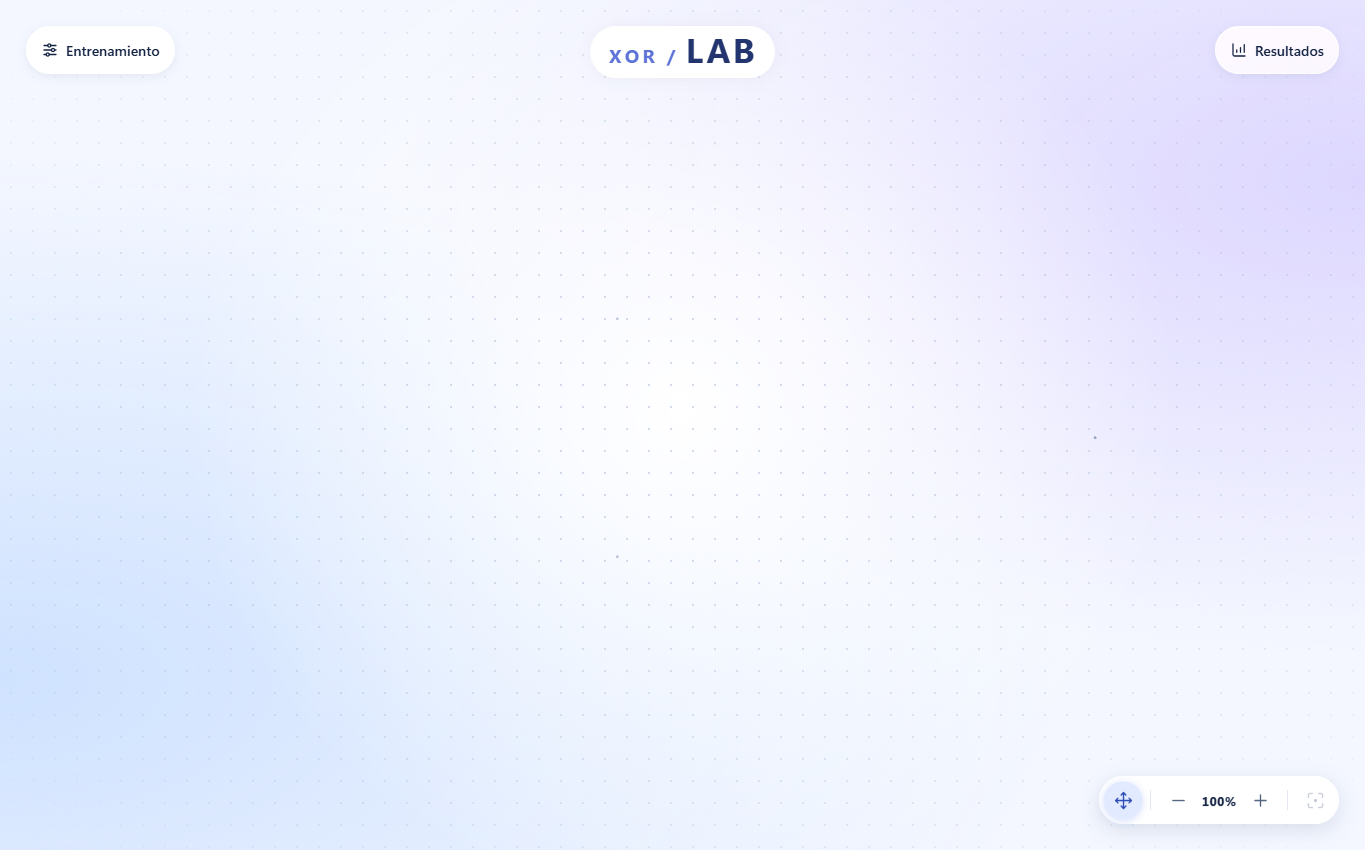
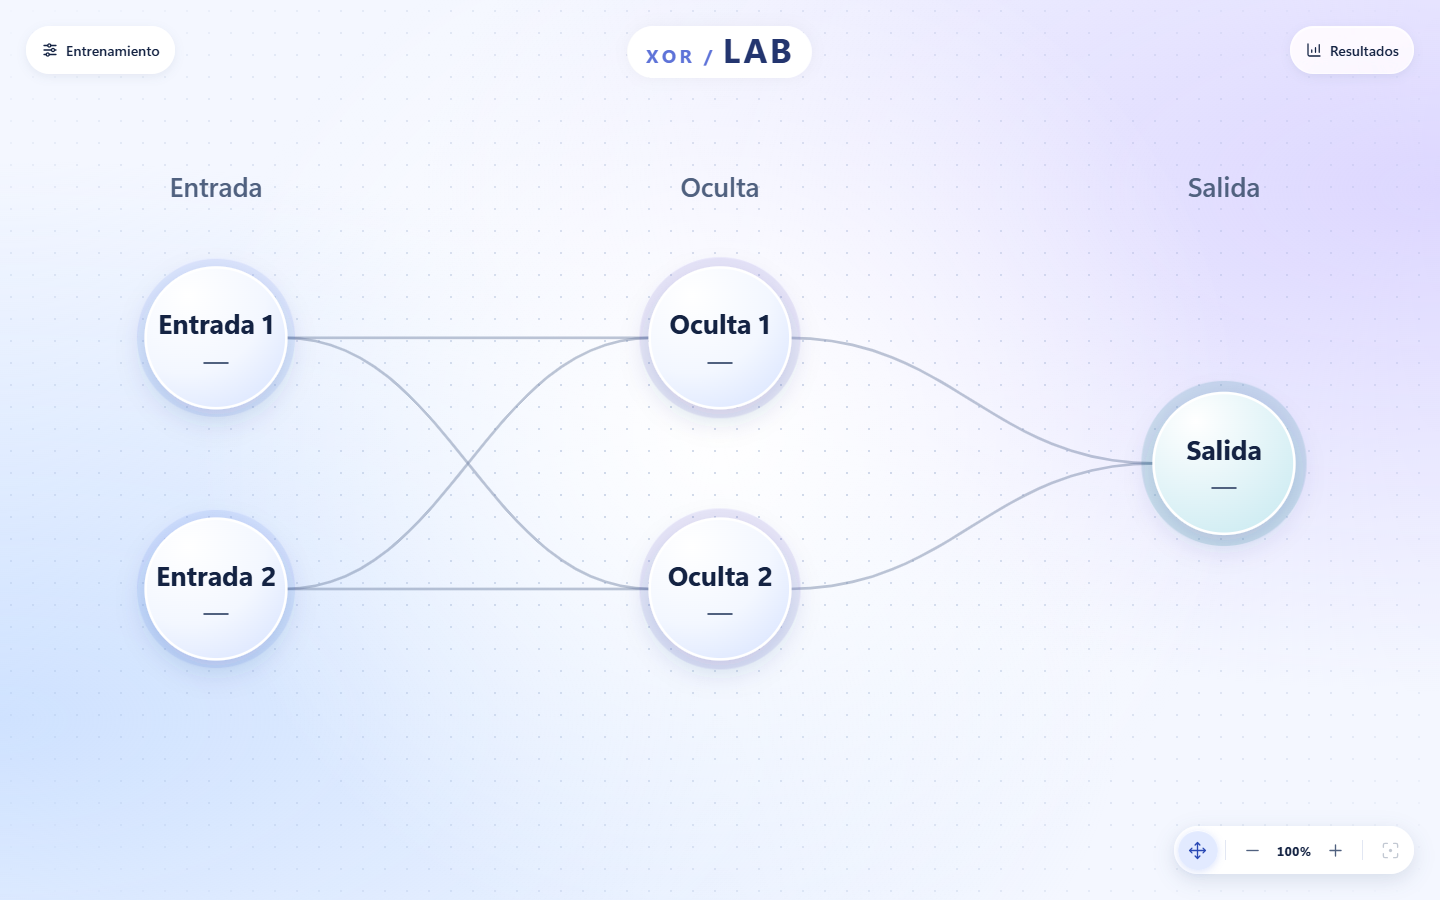
Mejora la guía visual y publica la descarga de XOR Lab

diff --git a/README.md b/README.md
@@ -1,32 +1,28 @@
 # XOR Lab
 
-<p align="center"><img src="docs/interfaz.png" width="850" alt="Interfaz interactiva de XOR Lab"></p>
+<p align="center"><img src="docs/interfaz.png" width="680" alt="Visualización de la red neuronal XOR"></p>
 
-**XOR Lab** muestra cómo una red neuronal pequeña aprende una operación que no puede resolverse con una sola frontera lineal. La red combina dos entradas, dos neuronas ocultas y una salida para aprender la tabla XOR.
+Una exploración visual del aprendizaje de una red neuronal. XOR Lab enseña cómo una red con una capa oculta puede aprender la operación XOR, cuyo patrón no se separa con una sola línea.
 
-## Qué puedes explorar
+## Qué ocurre dentro de la red
 
-La interfaz permite observar las entradas y activaciones de la red, entrenar paso a paso o automáticamente, ajustar el aprendizaje y explorar el diagrama con zoom y arrastre. Las cuatro combinaciones de entrada se contrastan con sus predicciones para ver cómo cambia la salida a medida que aprende.
+Dos entradas se conectan con dos neuronas ocultas y una neurona de salida. Cada neurona combina sus entradas con pesos y sesgos y aplica una sigmoide. Durante el entrenamiento, la retropropagación compara la predicción con el resultado esperado y ajusta los parámetros para reducir el error. En la interfaz puedes observar las conexiones y activaciones, avanzar paso a paso o entrenar automáticamente, cambiar el ritmo y comparar las cuatro combinaciones de la tabla XOR.
 
-## La lógica
+## Probar XOR Lab
 
-Cada neurona calcula una suma ponderada de sus entradas y aplica la función sigmoide. Las dos activaciones ocultas alimentan la salida. En cada ejemplo, la retropropagación compara la predicción con el valor esperado y ajusta pesos y sesgos para reducir el error cuadrático medio. La sesión conserva los parámetros y el avance del entrenamiento para reflejarlos en la interfaz.
-
-## Abrir XOR Lab
-
-Descarga la versión para Windows y ejecuta el archivo. No requiere instalar Python:
+Descarga y ejecuta la aplicación portable para Windows; no requiere instalar Python.
 
 <p align="center"><a href="https://github.com/sebasjq/xor-neural-network/releases/latest/download/XOR-Lab-1.0.0-portable.exe"><strong>⬇ Descargar XOR Lab para Windows</strong></a></p>
 
-También puedes iniciarlo desde el código con Python 3:
+También puedes abrir el código con Python 3:
 
 ```bash
 python -m interface.app
 ```
 
-Abre `http://127.0.0.1:8000` en el navegador.
+Luego visita `http://127.0.0.1:8000`.
 
-## Colaboradores
+## Equipo
 
 - Simón Tomás Paipa Bravo
 - Juan Sebastián Sánchez Quimbaya
